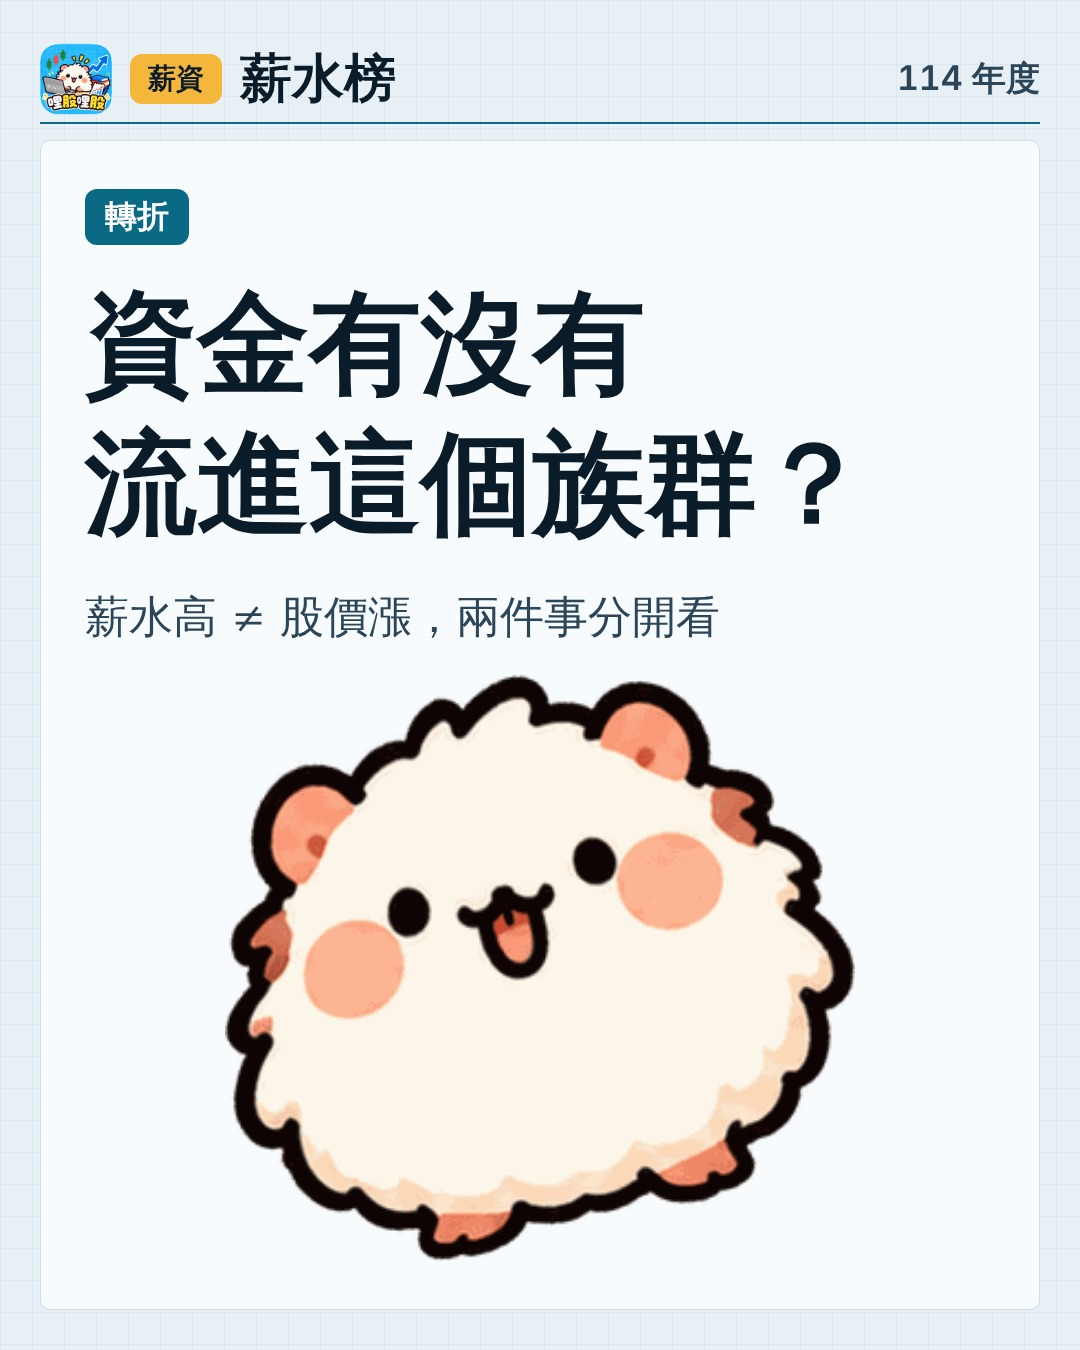
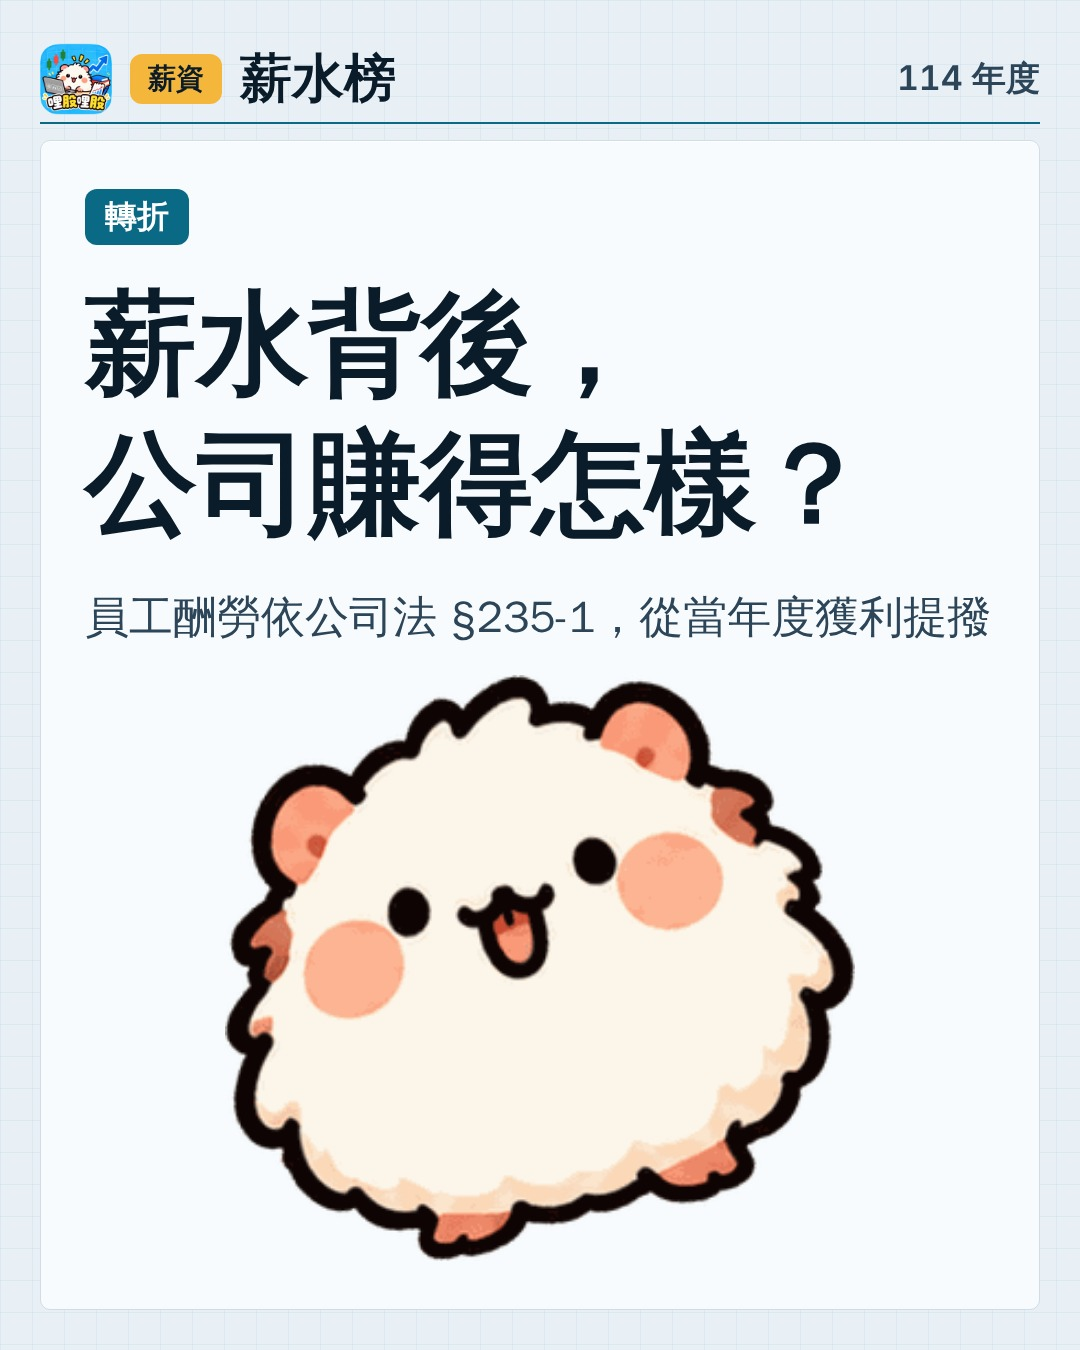
社群：薪資續集 10/29 轉折改為有法條根據的因果鏈（員工酬勞依公司法 §235-1）
Threads、IG Caption、第 7 張圖改為「薪水背後，公司賺得怎樣？」，網站落點改 #stock/2454。

Claude-Session: https://claude.ai/code/session_012g4oeY7X1bJYy2XizDYVTu

Changed region(s): [[0.0611, 0.2178, 0.7028, 0.4044], [0.0611, 0.4356, 0.9167, 0.4978]]

diff --git a/docs/marketing/posts/2026-10-29-salary/render_carousel.py b/docs/marketing/posts/2026-10-29-salary/render_carousel.py
@@ -79,7 +79,7 @@ slides_raw = [
  ('<div class="mid">中位數看中間那位</div>' + row(1,"聯發科",355.2,400,"b2") + row(2,"祥碩",337.4,400,"b2") + row(3,"瑞昱",319.3,400,"b2") + row(4,"台積電",316.2,400,"b2") + '<div class="unit">單位：萬元</div>'),
  ('<div class="mid">同一家公司，兩個數字</div>' + s5 + '<div class="unit">單位：萬元</div>'),
  ('<div class="big">前十名全是<br>半導體業</div><div class="sub">上市中位數前十名同一個產業</div>'),
- ('<div class="tag">轉折</div><div class="big">資金有沒有<br>流進這個族群？</div><div class="sub">薪水高 ≠ 股價漲，兩件事分開看</div>'),
+ ('<div class="tag">轉折</div><div class="big">薪水背後，<br>公司賺得怎樣？</div><div class="sub">員工酬勞依公司法 §235-1，從當年度獲利提撥</div>'),
  ('<div class="big">看完整資料：<br>點個人簡介的連結</div><div class="sub">族群資金流向</div><div class="disc">本內容為公開資料整理，不構成任何投資建議；投資有風險，請自行判斷。</div>'),
 ]
 

diff --git a/docs/marketing/posts/2026-10-29-salary/plan.md b/docs/marketing/posts/2026-10-29-salary/plan.md
@@ -63,11 +63,17 @@
 ・差了約 91 萬，因為少數高薪會把平均拉高
 上櫃最高：
 ・信驊 平均 561.7 萬、中位數 453.7 萬
-薪水最高的這幾家都在半導體。最近資金有沒有流進這個族群？
-可以到網站看族群資金流向，了解就好，不是買賣建議。
-#台股 #半導體 #薪資 #資金流向
+薪水怎麼來的：
+・員工酬勞依公司法 §235-1，章程要訂明從「當年度獲利」提撥；
+・所以薪資的一部分，跟公司賺多少連動
+以聯發科為例（2025 年）：
+・營收 5,959.66 億元，年增 12.3%；
+・EPS 66.16 元，前一年 66.92 元
+營收創高、獲利持平，兩者不一定同步。
+可以到網站看這家公司的營收與獲利趨勢，了解就好，不是買賣建議。
+#台股 #半導體 #薪資 #營收獲利
 👉 更多詳細資料可以點擊以下連結：
-https://liguligu-puipui.com/?u=threads-salary-20261029#flow
+https://liguligu-puipui.com/?u=threads-salary-20261029#stock/2454
 ```
 說明：口徑只在 Threads 內文寫一次（「非主管全時員工、114 年度，證交所／櫃買中心 6/30 公布」），放在留言串第一則，主貼文已近上限。Threads 留言串補充：口徑、來源、「資料為公開資訊整理，不構成任何投資建議；投資有風險，請自行判斷。」
 
@@ -81,10 +87,10 @@ https://liguligu-puipui.com/?u=threads-salary-20261029#flow
 | 4 | 中位數看中間那位 | 聯發科 355.2、祥碩 337.4、瑞昱 319.3、台積電 316.2 |
 | 5 | 同一家公司，兩個數字 | 聯發科 446.5 vs 355.2；信驊 561.7 vs 453.7 |
 | 6 | 前十名全是半導體業 | 上市中位數前十名同一個產業 |
-| 7 | 轉折：資金有沒有流進這個族群？ | 薪水高 ≠ 股價漲，兩件事分開看 |
+| 7 | 轉折：薪水背後，公司賺得怎樣？ | 員工酬勞依公司法 §235-1，從當年度獲利提撥 |
 | 8 結尾 | 看完整資料：點個人簡介的連結 | 圖上不印網址；本內容為公開資料整理，不構成任何投資建議 |
 
-IG 限動不能放連結，連結放個人簡介，網址帶 `https://liguligu-puipui.com/?u=ig-salary-20261029#flow`。
+IG 限動不能放連結，連結放個人簡介，網址帶 `https://liguligu-puipui.com/?u=ig-salary-20261029#stock/2454`。
 IG 貼文文案（Caption）：
 ```
 去年薪水最高的公司，這次換誰？
@@ -94,9 +100,11 @@ IG 貼文文案（Caption）：
 中位數：
 ・聯發科 355.2 萬、祥碩 337.4 萬；
 ・瑞昱 319.3 萬
-薪水最高的這幾家都在半導體，最近資金有沒有流進來？點個人簡介的連結看族群資金流向，了解就好，不是買賣建議。
-#台股 #半導體 #薪資 #資金流向
-https://liguligu-puipui.com/?u=ig-salary-20261029#flow
+薪水怎麼來的？員工酬勞依公司法 §235-1，要從當年度獲利提撥，所以薪資的一部分跟公司賺多少連動。
+以聯發科為例，2025 年營收 5,959.66 億元（年增 12.3%），EPS 66.16 元（前一年 66.92 元）。
+點個人簡介的連結看公司的營收與獲利趨勢，了解就好，不是買賣建議。
+#台股 #半導體 #薪資 #營收獲利
+https://liguligu-puipui.com/?u=ig-salary-20261029#stock/2454
 ```
 （IG 內文網址不能點，僅供對照；實際連結走簡介。）
 
@@ -128,7 +136,15 @@ https://liguligu-puipui.com/?u=ig-salary-20261029#flow
 | 13 | ✅ 無 | 無 AI 選股字樣、無敏感截圖 |
 | 14 | ✅ | 留言回覆用固定回覆 |
 | 15 | ✅ | hashtag 為 #台股 #半導體 #薪資 #資金流向，無明牌類 |
-轉折句已刻意只問「族群」，不給進場時機，也不寫「所以資金會流進來」。
+轉折句（2026-10-26 改寫）：Andy 認為原「資金有沒有流進這個族群」理由太牽強，改為有法條根據的因果鏈。
+
+## 八、轉折改寫（2026-10-26）
+鏈：薪水高 → 薪資含員工酬勞 → 員工酬勞依法從當年度獲利提撥 → 看公司營收與獲利趨勢。
+・法條：公司法 §235-1：公司應於章程訂明以當年度獲利狀況之定額或比率分派員工酬勞，尚有累積虧損時應先彌補。來源：[全國法規資料庫](https://law.moj.gov.tw/LawClass/LawSingle.aspx?media=print&pcode=J0080001&flno=235-1)、[理律](https://www.leeandli.com/TW/Newsletters/5415.htm)、[KPMG](https://kpmg.com/tw/zh/home/insights/2015/05/e-tax-alert2.html)（2015 修法；均為搜尋摘要，未讀全文，信心中高）。
+・數字（聯發科 2025，資料日期法說會 2026-02-04）：營收 5,959.66 億元、年增 12.3%；EPS 66.16 元、前一年 66.92 元。來源：[聯發科 Q4 法說會資料](https://www.mediatek.com/hubfs/MediaTek%20Assets/Pdfs/Quarterly%20Earnings%20Release/2025/Quarterly%20Earnings%20Release-2025Q4/%5B%E6%B3%95%E8%AA%AA%E6%9C%83%E8%B3%87%E6%96%99%5DQ4%E7%87%9F%E9%81%8B%E5%A0%B1%E5%91%8A.pdf)、[ETtoday](https://finance.ettoday.net/news/3113282)、[TechNews](https://finance.technews.tw/2026/01/09/mediateks-december-revenue-increased-by-22-99-year-on-year/)，信心高。
+・誠實面：營收創高但 EPS 小降，所以文中寫「兩者不一定同步」，不寫「薪水高＝公司很賺」。
+・限制：「員工酬勞」只是薪資的一部分（另有底薪、獎金），文中用「一部分」。
+・與第七節的衝突（需 Andy 與法遵知悉）：落點改為 #stock/2454，違反第七節必須守住第 1 點（不寫代號）與第 4 點（導流頁是 #flow）；網址內含代號。個股頁若含股價／技術評分，風險升高，發文前請法遵複核該頁可見內容。第 2 點「不寫因果推論」：本版因果是法條層面（薪酬來源），不推論股價；IG 原「薪水高 ≠ 股價漲」已移除，改以「不一定同步」。
 
 ## 七、法遵複核（2026-10-27）
 

diff --git a/social/threads/queue/2026-10-29_salary.md b/social/threads/queue/2026-10-29_salary.md
@@ -12,11 +12,17 @@ title: 薪資續集主貼文＋留言第一則（法遵 10-27 複核；發文前
 ・差了約 91 萬，因為少數高薪會把平均拉高
 上櫃最高：
 ・信驊 平均 561.7 萬、中位數 453.7 萬
-薪水最高的這幾家都在半導體。最近資金有沒有流進這個族群？
-可以到網站看族群資金流向，了解就好，不是買賣建議。
-#台股 #半導體 #薪資 #資金流向
+薪水怎麼來的：
+・員工酬勞依公司法 §235-1，章程要訂明從「當年度獲利」提撥；
+・所以薪資的一部分，跟公司賺多少連動
+以聯發科為例（2025 年）：
+・營收 5,959.66 億元，年增 12.3%；
+・EPS 66.16 元，前一年 66.92 元
+營收創高、獲利持平，兩者不一定同步。
+可以到網站看這家公司的營收與獲利趨勢，了解就好，不是買賣建議。
+#台股 #半導體 #薪資 #營收獲利
 👉 更多詳細資料可以點擊以下連結：
-https://liguligu-puipui.com/?u=threads-salary-20261029#flow
+https://liguligu-puipui.com/?u=threads-salary-20261029#stock/2454
 -----
 資料說明：證交所／櫃買中心 2026-06-30 公布，114 年度「非擔任主管職務之全時員工」薪資，平均數與中位數為官方揭露口徑。
-本內容為公開資料整理，不是任何個股的買賣建議，也不提供投資分析意見；投資有風險，請自行判斷。
+本內容為公開資料整理，不是任何個股的買賣建議；營收、獲利為公司公告數字（聯發科 2025 年第四季法說會、2026-02-04），也不提供投資分析意見；投資有風險，請自行判斷。

diff --git a/social/ig/queue/2026-10-29_salary.md b/social/ig/queue/2026-10-29_salary.md
@@ -11,5 +11,7 @@ images: social/ig/images/2026-10-29_salary_1.jpg, social/ig/images/2026-10-29_sa
 中位數：
 ・聯發科 355.2 萬、祥碩 337.4 萬；
 ・瑞昱 319.3 萬
-薪水最高的這幾家都在半導體，最近資金有沒有流進來？點個人簡介的連結看族群資金流向，了解就好，不是買賣建議。
-#台股 #半導體 #薪資 #資金流向
+薪水怎麼來的？員工酬勞依公司法 §235-1，要從當年度獲利提撥，所以薪資的一部分跟公司賺多少連動。
+以聯發科為例，2025 年營收 5,959.66 億元（年增 12.3%），EPS 66.16 元（前一年 66.92 元）。
+點個人簡介的連結看公司的營收與獲利趨勢，了解就好，不是買賣建議。
+#台股 #半導體 #薪資 #營收獲利
